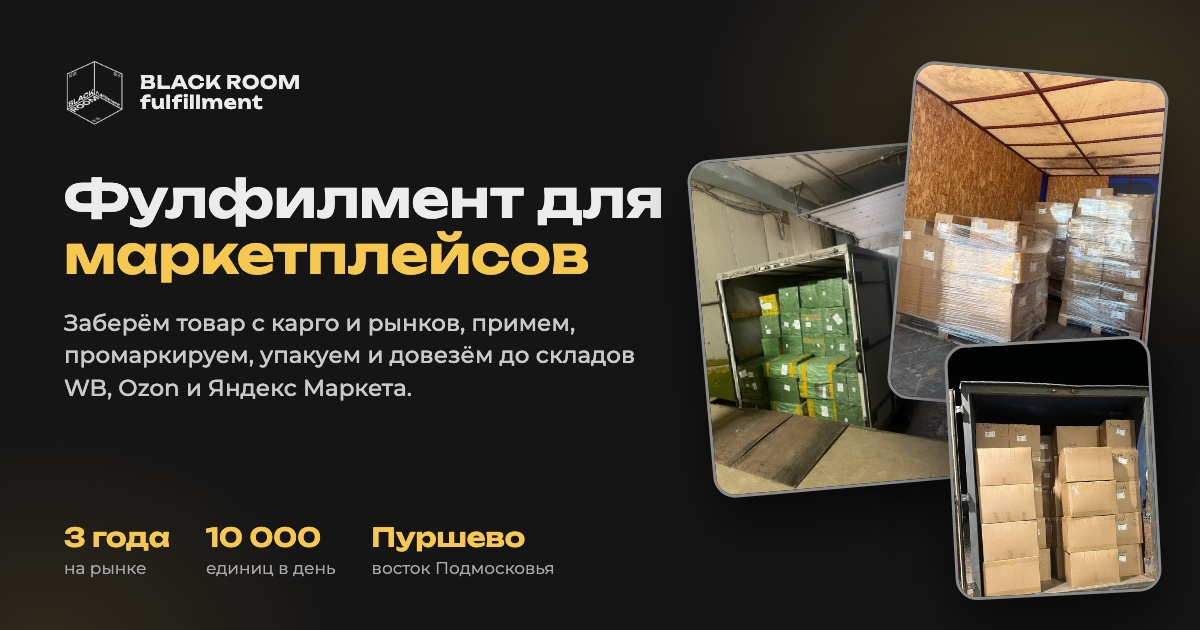
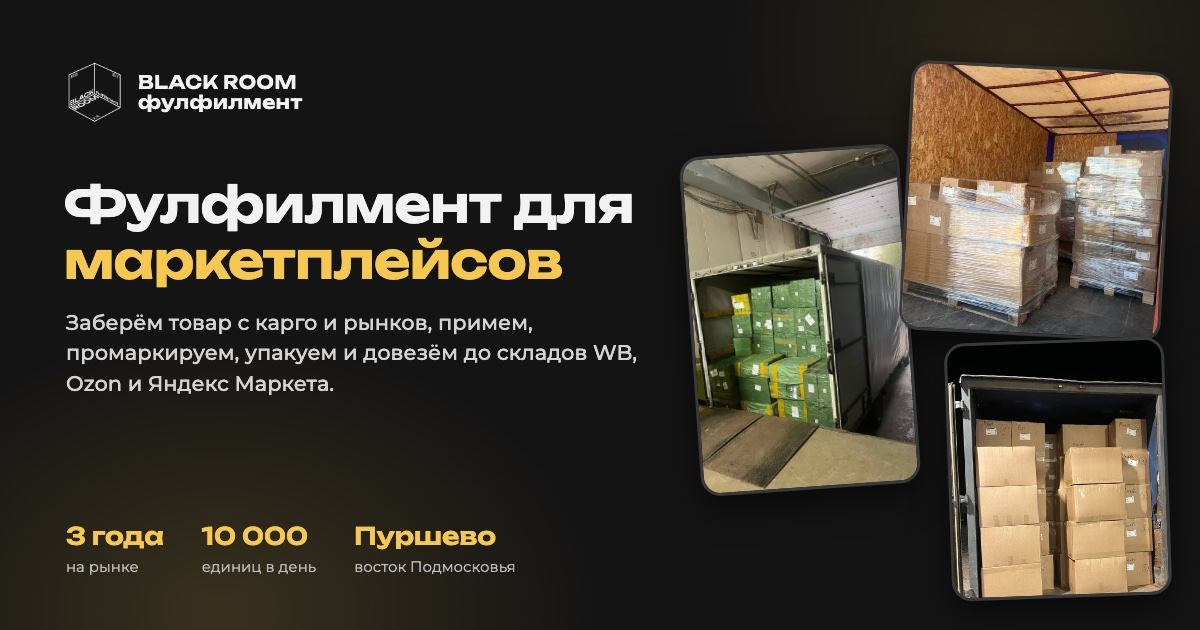
Контакты: карточка почты; превью ссылки с «фулфилмент» по-русски
Почта – ещё один способ связи, пока Telegram в России работает с перебоями.
Картинка превью пересобрана в прежнем макете; адрес с ?v=2, чтобы Telegram не показывал старую.

diff --git a/index.html b/index.html
@@ -12,7 +12,7 @@
 <meta property="og:url" content="https://blackroomteam.ru/">
 <meta property="og:site_name" content="Black Room">
 <meta property="og:locale" content="ru_RU">
-<meta property="og:image" content="https://blackroomteam.ru/img/og.jpg">
+<meta property="og:image" content="https://blackroomteam.ru/img/og.jpg?v=2">
 <meta property="og:image:width" content="1200">
 <meta property="og:image:height" content="630">
 <meta property="og:image:alt" content="Black Room – фулфилмент для маркетплейсов">
@@ -34,7 +34,8 @@
     <symbol id="i-box" viewBox="0 0 24 24"><path d="M12 3l8 4.5v9L12 21l-8-4.5v-9z"/><path d="M4 7.5l8 4.5 8-4.5M12 12v9"/></symbol>
     <symbol id="i-barcode" viewBox="0 0 24 24"><path d="M3 8V5.5A1.5 1.5 0 014.5 4H7M17 4h2.5A1.5 1.5 0 0121 5.5V8M21 16v2.5a1.5 1.5 0 01-1.5 1.5H17M7 20H4.5A1.5 1.5 0 013 18.5V16"/><path d="M7.5 8.5v7M10 8.5v7M12.5 8.5v7M15 8.5v7M17.5 8.5v7"/></symbol>
     <symbol id="i-shield" viewBox="0 0 24 24"><path d="M12 3l7 3v6c0 4.5-3 7.5-7 9-4-1.5-7-4.5-7-9V6z"/><path d="M9 12l2 2 4-4"/></symbol>
-    <symbol id="i-clock" viewBox="0 0 24 24"><circle cx="12" cy="12" r="8.5"/><path d="M12 7.5V12l3 2"/></symbol>
+    <symbol id="i-mail" viewBox="0 0 24 24"><rect x="3.5" y="5.5" width="17" height="13" rx="2"/><path d="M4 7l8 6 8-6"/></symbol>
+<symbol id="i-clock" viewBox="0 0 24 24"><circle cx="12" cy="12" r="8.5"/><path d="M12 7.5V12l3 2"/></symbol>
     <symbol id="i-people" viewBox="0 0 24 24"><circle cx="9" cy="8" r="3"/><path d="M3 20c0-3.3 2.7-6 6-6s6 2.7 6 6"/><path d="M16 5a3 3 0 010 6M21 20c0-2.6-1.7-4.8-4-5.6"/></symbol>
     <symbol id="i-search" viewBox="0 0 24 24"><circle cx="11" cy="11" r="6.5"/><path d="M20 20l-4.3-4.3"/></symbol>
     <symbol id="i-cycle" viewBox="0 0 24 24"><path d="M4.5 11a7.5 7.5 0 0113.4-4.4L20 9"/><path d="M20 4v5h-5"/><path d="M19.5 13a7.5 7.5 0 01-13.4 4.4L4 15"/><path d="M4 20v-5h5"/></symbol>
@@ -401,12 +402,15 @@
           <a class="ccard rv" href="tel:+79096630201">
             <span class="ci"><svg class="ic"><use href="#i-phone"/></svg></span>
             <span class="ct"><span class="cl">Телефон</span><b>+7 (909) 663-02-01</b><i>Позвонить<svg class="ic"><use href="#i-arrow"/></svg></i></span></a>
-          <a class="ccard rv" href="https://t.me/BRT_FF" target="_blank" rel="noopener">
-            <span class="ci"><svg class="ic"><use href="#i-play"/></svg></span>
-            <span class="ct"><span class="cl">Канал со склада</span><b>t.me/BRT_FF</b><i>Смотреть видео<svg class="ic"><use href="#i-arrow"/></svg></i></span></a>
+          <a class="ccard rv" href="mailto:brtfulfilment@gmail.com">
+            <span class="ci"><svg class="ic"><use href="#i-mail"/></svg></span>
+            <span class="ct"><span class="cl">Почта</span><b>brtfulfilment@gmail.com</b><i>Написать письмо<svg class="ic"><use href="#i-arrow"/></svg></i></span></a>
           <div class="ccard rv">
             <span class="ci"><svg class="ic"><use href="#i-clock"/></svg></span>
             <span class="ct"><span class="cl">Часы работы</span><b>10:00–19:00</b></span></div>
+          <a class="ccard wide rv" href="https://t.me/BRT_FF" target="_blank" rel="noopener">
+            <span class="ci"><svg class="ic"><use href="#i-play"/></svg></span>
+            <span class="ct"><span class="cl">Канал со склада</span><b>t.me/BRT_FF</b><i>Смотреть видео<svg class="ic"><use href="#i-arrow"/></svg></i></span></a>
           <a class="ccard wide rv" href="https://yandex.ru/maps/?text=%D0%9F%D1%83%D1%80%D1%88%D0%B5%D0%B2%D0%BE%2C%20%D0%9D%D0%BE%D0%B2%D0%BE%D1%81%D0%BB%D0%BE%D0%B1%D0%BE%D0%B4%D1%81%D0%BA%D0%B0%D1%8F%2C%2066" target="_blank" rel="noopener">
             <span class="ci"><svg class="ic"><use href="#i-pin"/></svg></span>
             <span class="ct"><span class="cl">Склад</span><b>Московская область, д. Пуршево, Новослободская, 66</b><i>Открыть на карте<svg class="ic"><use href="#i-arrow"/></svg></i></span></a>
